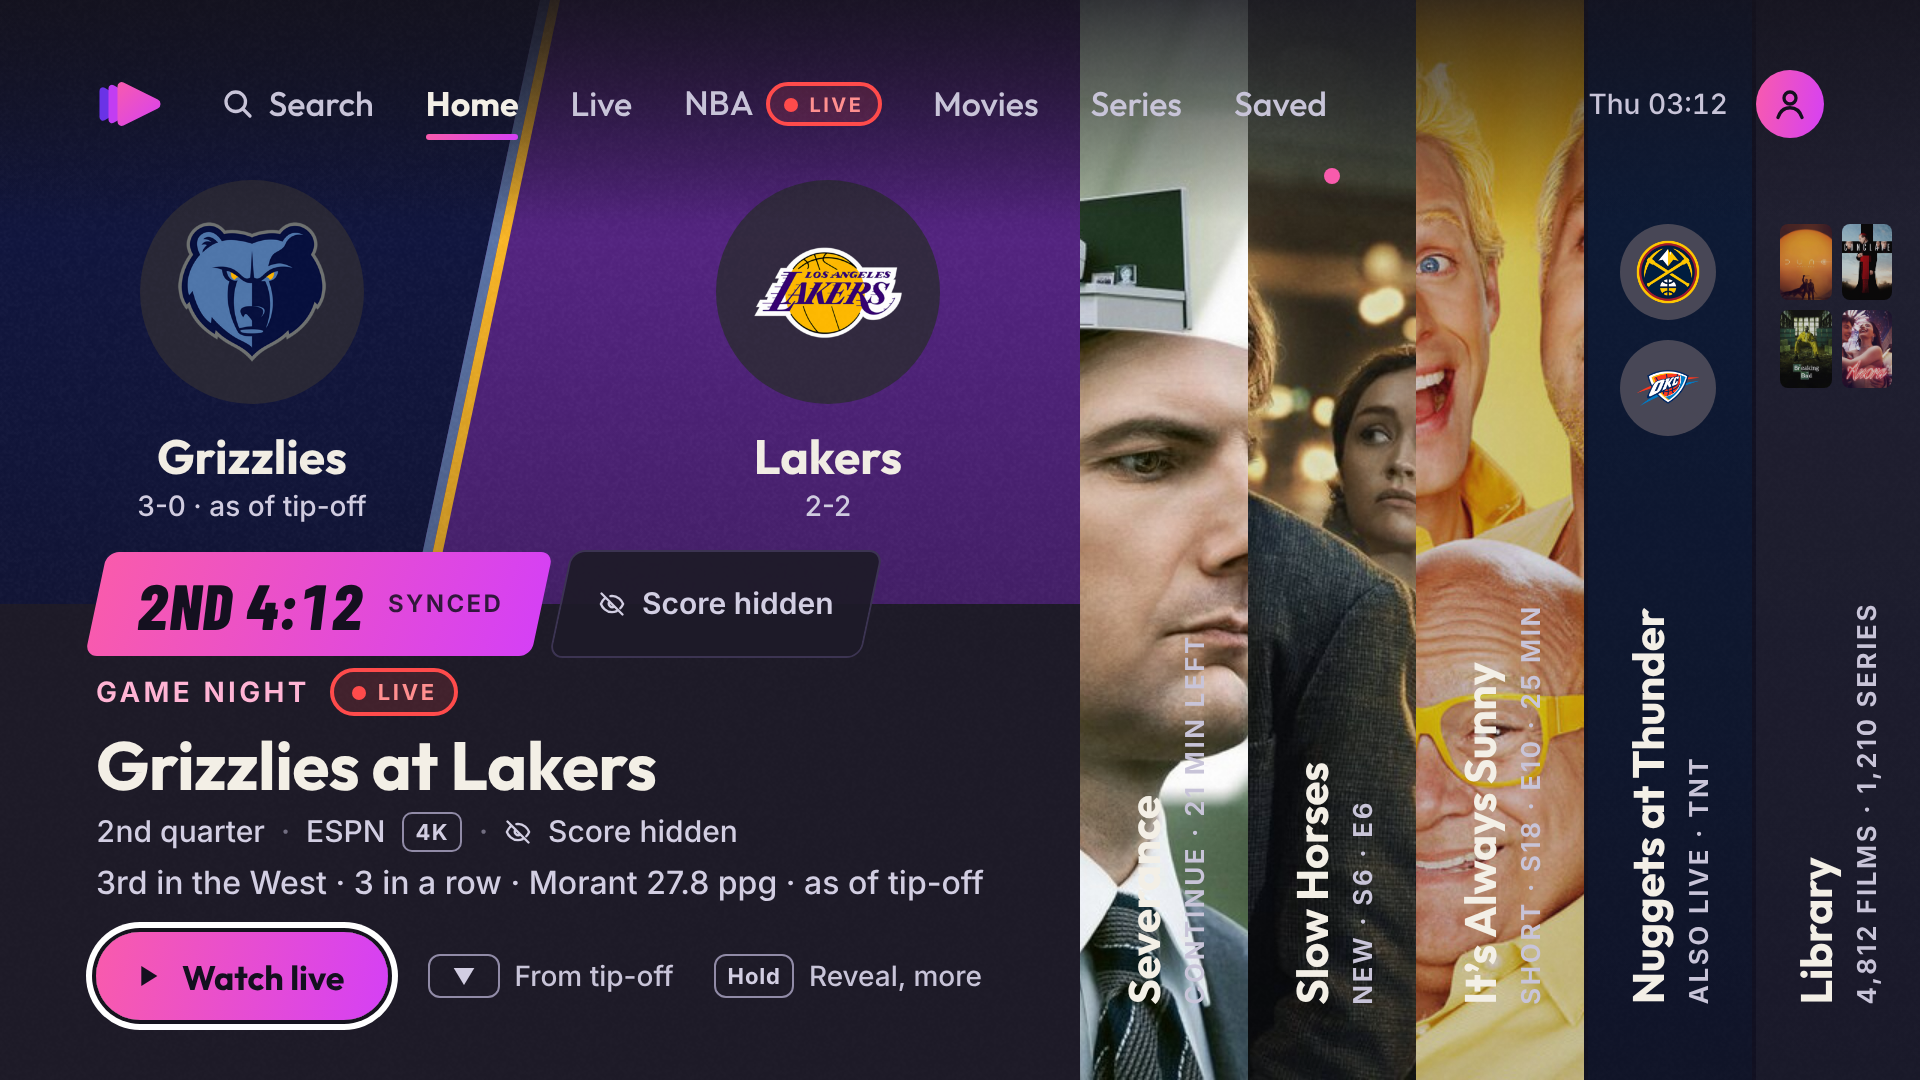
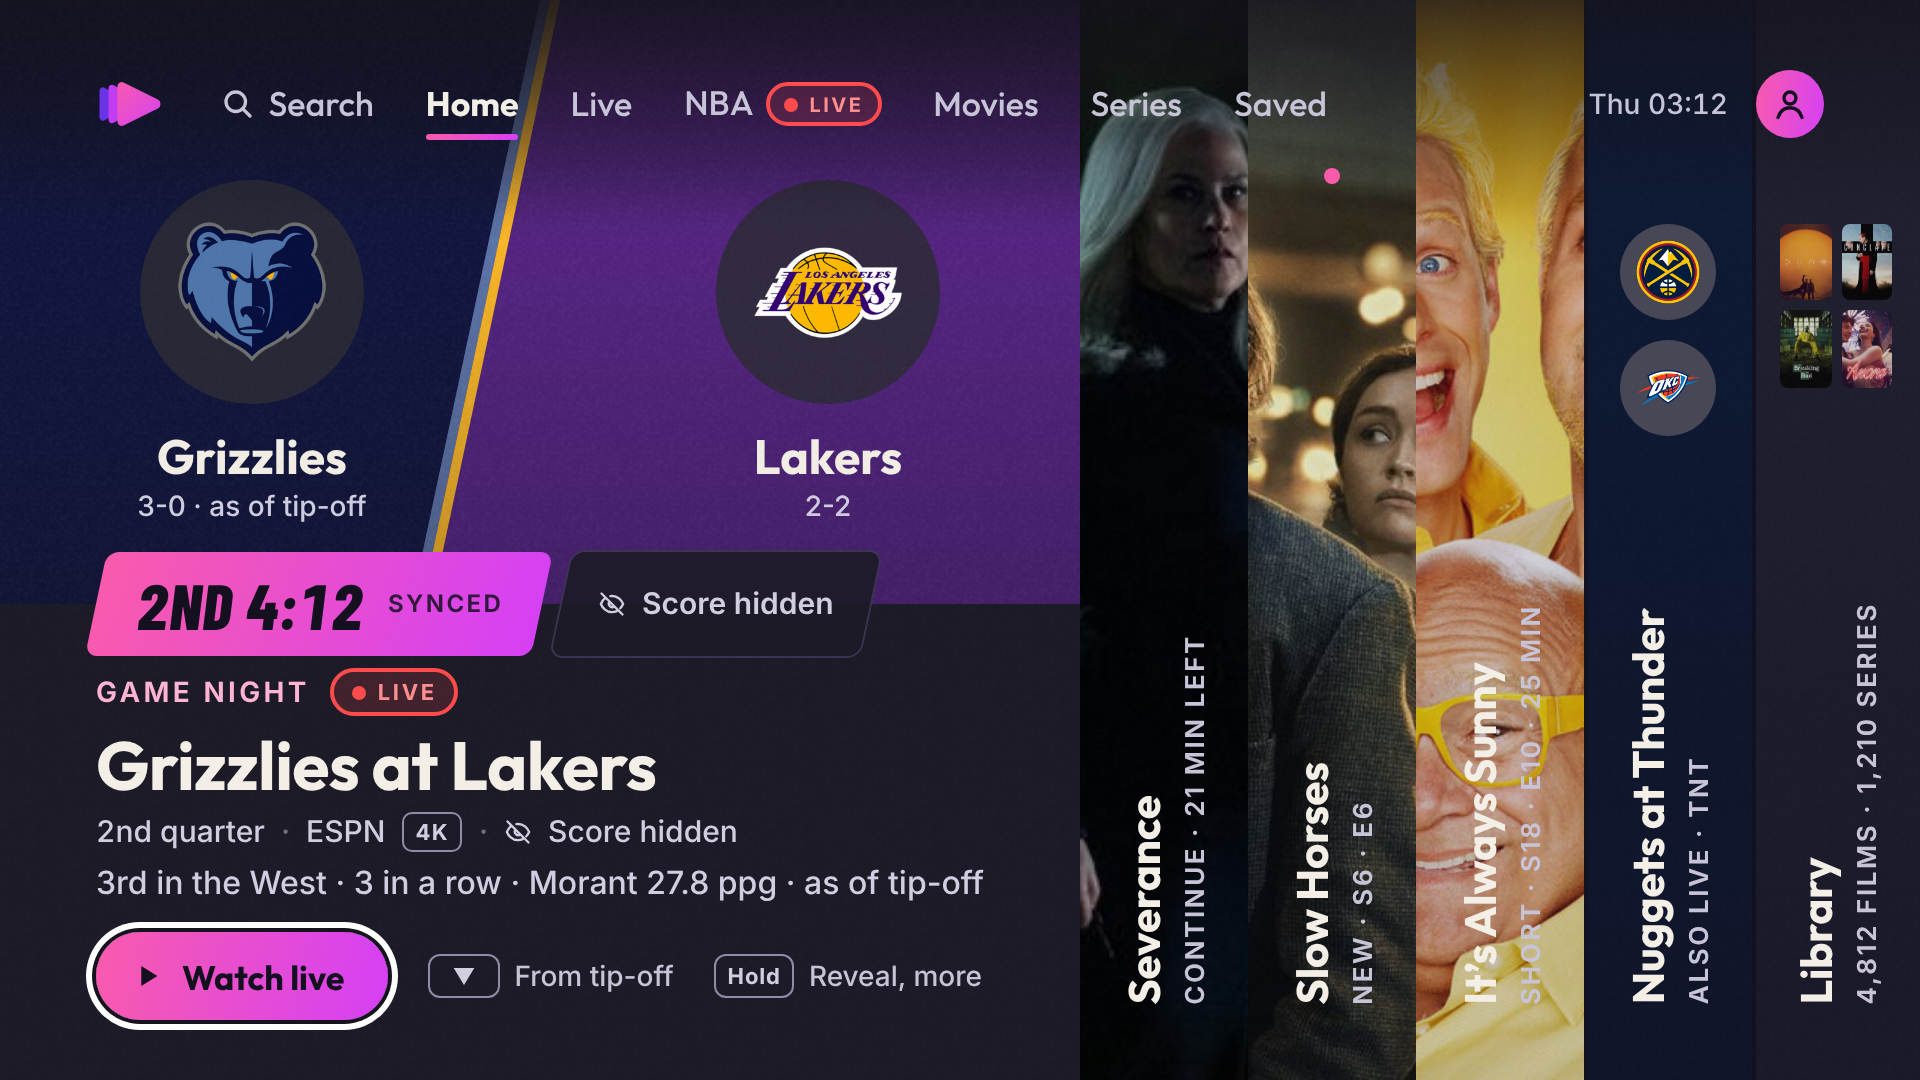
Home direction F (Echo): IDEA.md, the four mocks and renders, only the art the mocks use

Changed region(s): [[0.5625, 0.0, 0.6562, 1.0]]

diff --git a/design/ui-v1/home-directions/f-echo/gamenight.html b/design/ui-v1/home-directions/f-echo/gamenight.html
@@ -36,8 +36,8 @@
     </div>
   </div>
   <!-- 2 · continue -->
-  <div class="leaf s" style="--x:540px;--w:84px;--pos:60% 28%;--fx:-250px;--dim:0">
-    <img class="art" src="art/severance-bg.jpg" alt="">
+  <div class="leaf s" style="--x:540px;--w:84px;--pos:50% 40%;--fx:-200px;--dim:0">
+    <img class="art" src="art/severance-s2e3.jpg" alt="">
     <div class="lab"><div class="vt"><b>Severance</b><span>Continue · 21 min left</span></div></div>
   </div>
   <!-- 3 · new in your shows -->

diff --git a/design/ui-v1/home-directions/f-echo/IDEA.md b/design/ui-v1/home-directions/f-echo/IDEA.md
@@ -1,0 +1,131 @@
+# Direction F: Echo
+
+**The idea.** Home is a row of tall leaves standing across the whole screen, edge to edge, like a folding screen or a
+shelf of books seen from the front. One leaf is open: it is 540 px wide and 540 px tall, and it holds the real picture,
+the show's own logo, one line that says where you are, and one button. The other five stand folded beside it as
+spines 84 px wide, each a strip of its own artwork with its name running up the spine (`Slow Horses · New · S6 · E6`,
+`Blade Runner 2049 · Film · ends 23:27 · 4K`, `Grizzlies at Blazers · NBA · Thu 02:00`, `Kastljós · On now`,
+`Library · 4,812 films`). Press Right and the next leaf opens where it stands while this one folds; nothing scrolls,
+nothing reorders, the six things that matter tonight are always all on screen, and the one you are on is the size of
+the screen. The spines step back from the open leaf, each a shade darker than the last: the open leaf is the wedge of
+the airglow mark and the spines are its echo bands. On game night the game is the open leaf, the two teams' fields
+cut by the 12° split with the crests big and the clock on the gradient, and the rest of the evening waits folded
+beside it. Press Down and tonight folds into a strip at the top while the library's shelves stand as leaves below,
+the same idea one level down.
+
+**What makes it unique.**
+- **Everything is on screen, and still only one thing is big.** Rows hide what is off the edge; a list (A) keeps
+  the pictures to one; a wall (B) has nothing big. The leaves give the whole plan for tonight in six pictures you
+  can read from the sofa, *and* a full-height picture for the one you are on. Nothing on Home ever scrolls.
+- **It opens in place.** The leaf you choose grows where it stands and its neighbours fold, like a folding screen:
+  a motion no TV home has, cheap to draw (left and width on six boxes, the art clipped, never scaled), and the kind
+  of thing you press Right and Left just to watch. The fold also makes Down obvious: a leaf is a door, and you walk
+  through it into its shelf.
+- **Spines, not captions.** A folded leaf is named along its edge, in the show's own colours and artwork, like a
+  book on a shelf. The name is the only text; the picture is the rest. The game's spine is its team's navy with the
+  two crests, the channel's spine is the provider's logo, the Library's is a stack of posters.
+- **The brand is the layout.** The open leaf and the stepping spines are the mark's wedge and its echo bands, drawn
+  with the evening's own pictures; the name *echo* is the mark's story (a signal and its afterimage).
+- **Game night is a leaf, so it is a mode without being a takeover.** The game owns the big leaf and the top bar's
+  LIVE pill; the spines take the team's dark; Severance, Slow Horses, a short episode and the other live game are
+  one press away, visibly, and when the game is over they are what Home is.
+
+**How the remote moves.**
+- Left / Right: the next leaf opens in place and this one folds (320 ms, `--a-ease`; left and width on the six leaves,
+  the art stays put and is clipped, the text of the opening leaf fades in). The focus is the open leaf's one button
+  (`Resume`, `Play`, `Watch live`, `Tune`, `Open`), which wears the ring.
+- OK: that button. Hold OK: the leaf's menu (Start over, Details, Save; Reveal score on the game).
+- Down: through the leaf into its shelf. Tonight folds into a strip of six chips at the top (y 84–126, the leaf you
+  came through outlined in pink) and the library's shelves stand as leaves below: from the Continue leaf, Your shows;
+  from the film, A film for tonight; from the game, Tonight in the NBA; from the channel, the guide; from the
+  Library, the doors. In a shelf leaf Left / Right move along its posters (the ring is on the poster, the leaf's
+  picture and logo answer it) and the next shelf opens when you run off the end or press Right from the last poster;
+  Up from the posters, or Back, unfolds tonight.
+- Up from the open leaf's button: the top bar, as everywhere.
+- The leaves have a fixed order and cap: continue · new in your shows · a film for tonight · the game · on now ·
+  library. Empty ones are left out (five leaves make the open one 624 wide). Game night puts the game first and adds
+  a short episode and the other live game. Nothing moves while you are looking at it; the order changes only between
+  visits.
+
+**The screens.**
+1. `evening.html`: Wed 28 Oct 20:41. Open: **Severance**, the show's backdrop cropped tall (the office on his head),
+   `CONTINUE WATCHING`, the logo in chalk, `S2 · E3 · Who Is Alive? · 21 min left · Ends 21:03 · 4K`, the episode's
+   line, the progress bar, `▶ Resume` focused, `▼ Episodes`, `Hold Start over, Details`. Spines: Slow Horses (the new
+   dot, `New · S6 · E6`), Blade Runner 2049 (`Film · ends 23:27 · 4K`), Grizzlies at Blazers (Memphis navy, both
+   crests, `NBA · Thu 02:00`), Kastljós (`RÚV`, `On now · until 20:55`), Library (four posters, `4,812 films ·
+   1,210 series`).
+2. `gamenight.html`: Thu 03:12, Grizzlies at Lakers live, 2nd quarter, shield on. Open: the Memphis field and the
+   Lakers field cut at 12° with their secondary edges, the crests in the neutral discs, `Grizzlies · 3-0 · as of
+   tip-off`, `Lakers · 2-2`, the clock chip `2ND 4:12 · synced` and the `Score hidden` plate sitting on the band's
+   edge, then on the dark band `GAME NIGHT · LIVE`, `Grizzlies at Lakers`, `2nd quarter · ESPN · 4K · Score hidden`,
+   the fan line as of tip-off, `▶ Watch live` focused, `▼ From tip-off`, `Hold Reveal, more`. The bar's NBA tab wears
+   the LIVE pill; the LIVE pills and the ring sit on the canvas and the band, never on a field. Spines: Severance
+   (the episode's own still, `Continue · 21 min left`), Slow Horses, It's Always Sunny (`Short · S18 · E10 · 25
+   min`), Nuggets at Thunder (Denver navy, `Also live · TNT`, no score), Library.
+3. `browse.html`: Wed 20:43, Down through the film leaf. The strip of six chips at the top, Blade Runner 2049
+   outlined; below, the shelf leaf **A film for tonight · 212 · ends before midnight** open: Blade Runner 2049's
+   backdrop and logo, `2017 · 2h 44m · Ends 23:27 · 4K · HDR · IMDb 8.0 · Northlight`, two lines of plot, `OK
+   Details · Hold Play now, Save · ▲ Tonight`, and its posters (Blade Runner 2049 ringed and lifted, Sinners, Dune:
+   Part Two, Heat, Conclave, each with its copy's quality). Folded shelves: Popular on Cinemeta, New this month,
+   Á íslensku (38 films · 6 series), In 4K (412 films), Saved (12), each a strip of one of its posters.
+4. `sideways.html` (the extra screen, so the fold is understood): Wed 20:42, Right twice from screen 1. The film leaf
+   is open in the middle of the row, Severance and Slow Horses folded on its left, the game, the channel and the
+   Library on its right: `A FILM FOR TONIGHT · ENDS BEFORE MIDNIGHT`, the logo, the meta, the plot, `▶ Play`, `▼ More
+   for tonight`, `Hold Details, Save`.
+
+**Only data the app has.** Continue watching with progress, episode names, lines and stills (Cinemeta `videos`),
+the next episode of followed shows, runtimes for `Ends` (Cinemeta `runtime`, the ratings file), quality per copy
+(4K / HDR when checked) and the add-on's name, the guide's programme titles and times (no programme art: the channel's
+spine is its logo on a flat field), the NBA slate, records as of tip-off under the shield, the game clock, Cinemeta
+backgrounds, logos and posters by IMDb id, ESPN crests, the catalog's counts. The titles, episodes, runtimes and
+ratings are real (Cinemeta, 28 Oct 2026); the games, the channel line-up and the add-on `Northlight` are the
+home-v2 timeline's stand-ins.
+
+**Brand.** airglow's Soft identity throughout: the canvas and bg-1, chalk and the text tokens, Outfit 700 for the
+spines and titles, Inter for the lines, the gradient only on the one button, the progress bar, the clock chip and the
+avatar, the 5 px white ring with its canvas gap on the button and the poster, radius 10 posters, the mark and the tabs
+unchanged. The Sharp dialect (12° fields, the skewed chip and plate, Barlow Condensed italic for the clock) appears
+on the game leaf only. One new thing argued: **the spine**, a folded leaf 84 px wide named along its edge in Outfit 700
+22 (sideways, read bottom to top) with a 13 px caps line beside it; it is the one place the brand's text runs
+vertically, and it is what makes the row read as leaves and not as a grid of thumbnails. Black logos (Severance) are
+drawn in chalk, as the detail page does.
+
+**Against A.**
+- Where Echo is better: A shows one picture and five names; Echo shows six pictures and still gives the chosen one
+  540 × 540 px of real art, so the plan for tonight is read as artwork, not as a list, and the thing you are not on is
+  still a thing you can see. The open-in-place fold is a signature motion A does not have, and it makes Down (into a
+  leaf) and the library (leaves again) one idea instead of two layouts. Game night in A is the lineup entry wearing a
+  plate against a whole-screen field; in Echo the game is a leaf like any other, so the mode is strong without the
+  evening's other things going grey beside it. Echo's spines carry their own colour (team navy, the provider's logo,
+  the posters), where A's list is text on a scrim.
+- Where A is still better: A's picture is wider (960 × 540 against 540 × 540), so a landscape backdrop is shown as
+  the artist framed it, while Echo crops every backdrop to a tall square and depends on a good focal point (`object-
+  position` per title; a group shot or a wide landscape loses its sides). A's six lines are faster to read than six
+  spines: horizontal text at 26 px beats sideways text at 22 px, and the spines' second line is at 13 px, which is a
+  badge size used for a sentence (the fix is 14 px and shorter copy). A's screen is quieter: one picture and type;
+  Echo's row of strips can get busy when every spine is a face, which the step-back veil has to hold. And A's lineup
+  can hold six entries with room to spare, while Echo is capped at six leaves before the spines get too thin.
+
+**Risks.**
+- **The fold has to be smooth.** Six boxes change left and width over 320 ms; the pictures do not scale (they are
+  clipped at open size), the text of the opening leaf fades in after the fold. On a weak panel the fallback is a cut
+  with a 200 ms opacity crossfade. Measured on the TV before it ships.
+- **Tall crops.** Every backdrop is cut to 540 × 540 from 16:9. The app needs a focal point per title: Cinemeta has
+  none, so the rule is the poster's colour as a flat ground when the backdrop's subject sits at an edge, and
+  `object-position` from a small face/contrast scan of the 32 px copy (the same scan home-v2's ambient colour uses).
+- **Sideways text.** Outfit 700 at 22 px sideways reads from the sofa (it is 44 px on the panel), but a long name
+  (`Grizzlies at Trail Blazers`) is shortened (`Grizzlies at Blazers`) and the spine's second line at 13 px is under
+  the 14 px floor; both are copy rules, not layout changes.
+- **Only six on screen.** Everything else is one Down away, and the `Library` leaf is always the last spine so the
+  door is never hidden. The leaf order is a setting (Account > Home), as home-v2's rows are.
+- **Strips of faces.** Six pictures side by side could be noise; the veil (bg-0 .34 to .95 down the spine), the
+  step-back (0 to 32 % darker per leaf away from the open one) and the top scrim for the bar keep the open leaf the
+  only bright thing. If a spine's art fights its name, the spine falls back to the poster's colour.
+- **Performance:** one container for the row, six `<img>` at open size with `data-src` for the spines beyond the
+  next, the fold on `left` and `width` only, no filters, no blur; the game leaf's clock is a named node updated with
+  `textContent`.
+
+**Files.** `evening.html`, `gamenight.html`, `browse.html`, `sideways.html` (960 × 540, linking the app's `fonts.css`
+and `tokens.css` plus `echo.css`); `png/*.png` at 1920 × 1080; `art/` the Cinemeta backgrounds, logos, posters and
+episode stills and the ESPN crests used (`severance-logo-chalk.png` is Cinemeta's black logo filled chalk);
+`tools/render.js` (Playwright, `NODE_PATH=$(npm root -g) node tools/render.js`).
